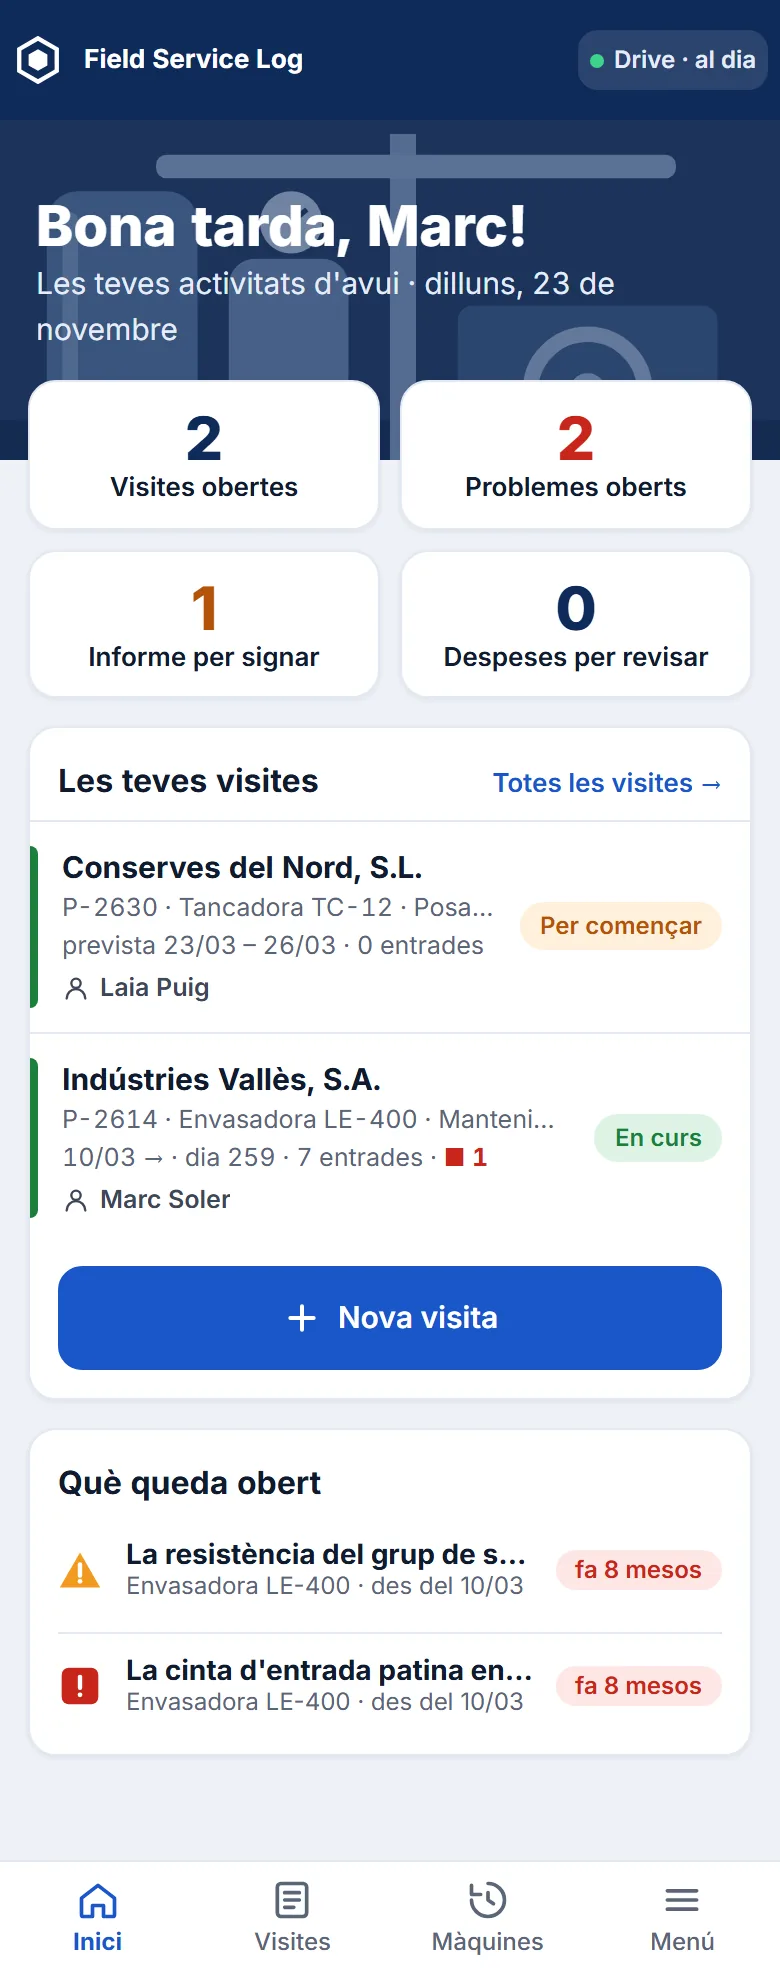
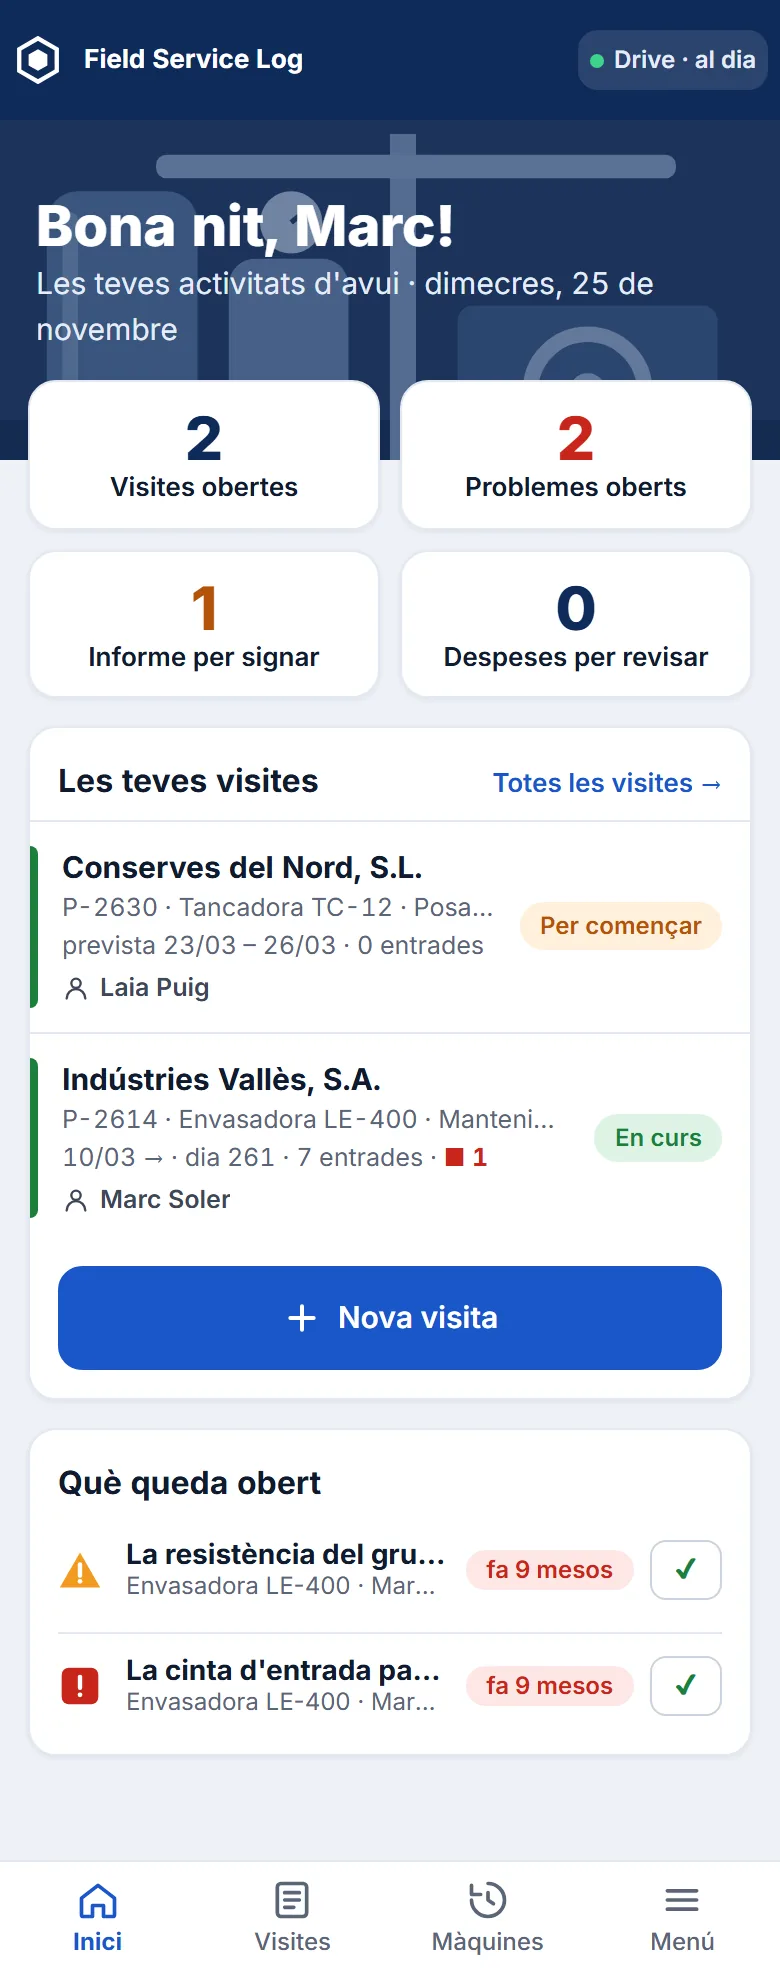
El manual, al dia amb l'app del 25 de novembre
La data, el botó de tancar un punt tal com es veu al mòbil i l'avís
sobre l'historial de les màquines. Tres captures refetes: Inici, amb
el botó de tancar punts, i Menú i Usuaris, pel número de versió.

Changed region(s): [[0.2462, 0.0924, 0.8308, 0.154], [0.4923, 0.8318, 0.9231, 0.8626], [0.5231, 0.7702, 0.9231, 0.801]]

diff --git a/manual.html b/manual.html
@@ -61,7 +61,7 @@
 <header>
   <div class="logo">Field Service Log</div>
   <h1>Manual d'ús</h1>
-  <p class="sub">Com fer servir l'aplicació, de la primera entrada fins a l'arxiu. Actualitzat el 23 de novembre de 2026.</p>
+  <p class="sub">Com fer servir l'aplicació, de la primera entrada fins a l'arxiu. Actualitzat el 25 de novembre de 2026.</p>
 </header>
 
 <nav class="toc">
@@ -741,7 +741,7 @@ P-2026-171 Taxi - VTC (2) comprovant.jpg</pre>
 </table></div>
 <p><strong>Una visita sense tècnic és una visita sense assignar</strong>: la veu l'administrador, que té a les llistes la marca «Sense tècnic» per trobar-la, i cap tècnic fins que algú hi posa el nom. L'única excepció és l'aparell on s'ha creat, que la segueix veient.</p>
 <p>Una llicència sense rol compta com la d'un administrador. Un aparell de tècnic sense nom posat veu totes les visites.</p>
-<div class="warn"><p><strong>És ordre, no un pany.</strong> Tots els aparells baixen totes les visites del compte, i l'historial d'una màquina ensenya les de tothom. El rol decideix què es veu a les llistes i què es pot fer des de cada aparell; no amaga res a qui té la contrasenya del compte.</p></div>
+<div class="warn"><p><strong>És ordre, no un pany.</strong> Tots els aparells baixen totes les visites del compte, i l'historial d'una màquina on el tècnic té una visita ensenya les de tothom. El rol decideix què es veu a les llistes i què es pot fer des de cada aparell; no amaga res a qui té la contrasenya del compte.</p></div>
 <h3>La configuració de l'empresa</h3>
 <p>Menú › <span class="btn">Configuració de l'empresa</span>. Des de l'aparell de l'administrador, desa a Drive el que té aquell aparell perquè el tinguin tots: la <strong>clau de Gemini</strong>, les <strong>columnes del full d'hores</strong>, el <strong>full de despeses buit</strong> de l'empresa i la <strong>llicència dels tècnics</strong>. Cada aparell ho rep quan sincronitza, i en un aparell de tècnic aquestes coses ja no es poden canviar. Des d'un aparell de tècnic, la mateixa fila ensenya què ha desat l'empresa i quan.</p>
 <p><strong>La llicència dels tècnics es reparteix sola.</strong> Una empresa té dues llicències: la de l'administrador i una per a tots els tècnics. L'administrador enganxa la dels tècnics a la finestra de la Llicència del seu aparell —es queda guardada per repartir, no s'hi instal·la— i desa la configuració. Els aparells dels tècnics, i els que encara no tenen cap llicència, la reben en sincronitzar. Quan l'empresa compra un mòdul, n'hi ha prou de repetir-ho amb la llicència nova: no cal tocar cada aparell.</p>
@@ -771,7 +771,7 @@ P-2026-171 Taxi - VTC (2) comprovant.jpg</pre>
 <p>A l'apartat Encàrrec, la casella <strong>«Guarda-la preparada»</strong> desa la visita sense que cap tècnic la vegi, amb el tècnic ja posat o sense. L'administrador les té a Inici, a «Preparades, per enviar», i a les llistes porten la marca <strong>Preparada</strong>. Quan toca, <span class="btn">Envia al tècnic</span>, a la targeta Encàrrec de la visita, la fa arribar; si encara no té tècnic, primer el demana.</p>
 <p>Una visita que ja existia i no s'havia encarregat a ningú s'envia igual: a la seva fitxa, <span class="btn">Envia-la a un tècnic</span>. Una visita on ja hi ha entrades escrites no s'amaga mai, encara que es marqui com a preparada.</p>
 <h3>Tancar un punt des de l'oficina</h3>
-<p>Un problema o un avís que s'ha resolt sense tornar a la màquina —el client confirma per telèfon que ha canviat la peça, s'ha arreglat a distància— el tanca l'administrador amb una <strong>nota d'oficina</strong>. A Inici, a «Què queda obert», cada punt té el botó <span class="btn">✔ Tanca'l</span>; també hi és a l'historial de la màquina, a dalt de tot, a «Des de l'oficina», que els té tots.</p>
+<p>Un problema o un avís que s'ha resolt sense tornar a la màquina —el client confirma per telèfon que ha canviat la peça, s'ha arreglat a distància— el tanca l'administrador amb una <strong>nota d'oficina</strong>. A Inici, a «Què queda obert», cada punt té el botó <span class="btn">✔ Tanca'l</span> (al mòbil, només <span class="btn">✔</span>); també hi és a l'historial de la màquina, a dalt de tot, a «Des de l'oficina», que els té tots.</p>
 <ul>
   <li>Hi escrius <strong>com ha quedat</strong>, la data i qui el tanca.</li>
   <li><strong>L'informe que es va lliurar no es toca</strong>: no demana cap revisió nova ni cap signatura, i val igual per a una visita oberta, tancada o arxivada.</li>
